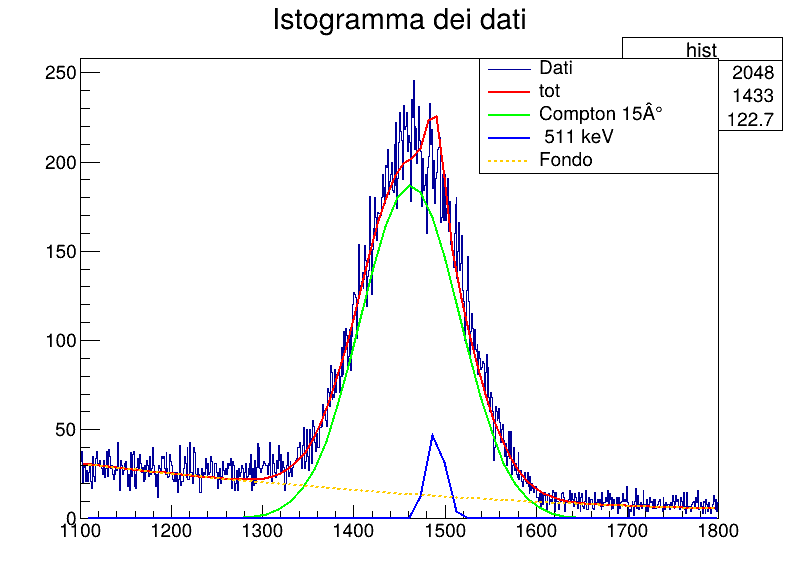
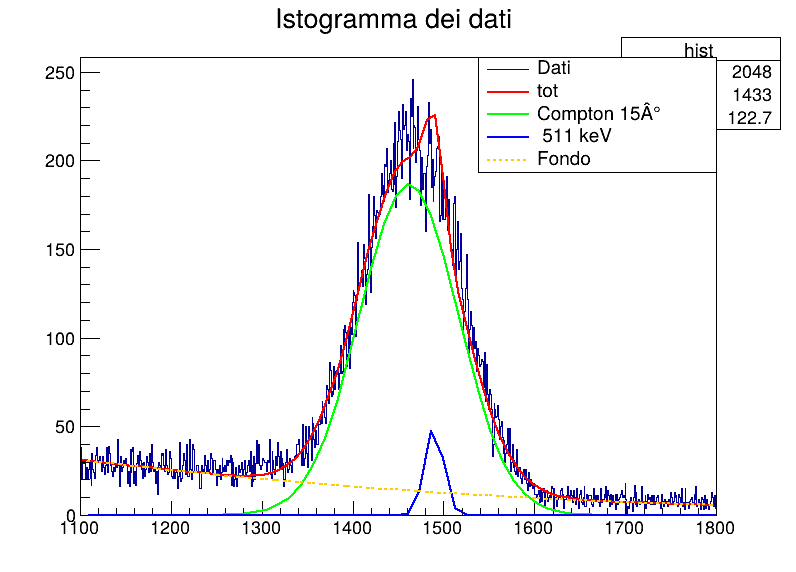
prove inutili

diff --git a/Measurments_trasmission/analisi 15 °/Picco15deg.py b/Measurments_trasmission/analisi 15 °/Picco15deg.py
@@ -1,109 +1,82 @@
 import numpy as np
 import matplotlib.pyplot as plt
-import ROOT
-from ROOT import TF1, TH1F, TCanvas, TLegend
+from iminuit import Minuit
+from scipy.stats import norm
 
-# Lettura del file
+# === Leggi i dati ===
 def read_data(filename):
     data = []
     with open(filename, 'r') as f:
-        lines = f.readlines()
-        for line in lines:
-            if line.strip() and not line.startswith("Canale"):  # Ignora le prime righe non numeriche
+        for line in f:
+            if line.strip() and not line.startswith("Canale"):
                 try:
                     _, _, eventi = map(int, line.split())
                     data.append(eventi)
-                except ValueError:
+                except:
                     continue
     return np.array(data)
 
-# Creazione dell'istogramma ROOT
-def create_histogram(data):
-    hist = TH1F("hist", "Istogramma dei dati", len(data), 0, len(data))
-    for i, value in enumerate(data):
-        hist.SetBinContent(i+1, value)  # ROOT usa bin da 1
-    return hist
-
-# Funzione di fit: doppia gaussiana + fondo parabolico
-def double_gauss_parabola(x, par):
-    g1 = par[0] * np.exp(-0.5 * ((x[0] - par[1]) / par[2])**2)
-    g2 = par[3] * np.exp(-0.5 * ((x[0] - par[4]) / par[5])**2)
-    bg = par[6] + par[7]*x[0] + par[8]*x[0]**2
-    return g1 + g2 + bg
-
-# Creazione della funzione di fit
-fit_func = TF1("fit_func", double_gauss_parabola, 1000, 1900, 9)
-
-def setup_fit_function(fit_func , i):
-    fit_func.SetParameters(150, 145, 100, 200, 1500, 100)
-    fit_func.SetParLimits(0, 100, 200)
-    fit_func.SetParLimits(1, 1400, 1500)
-    fit_func.SetParLimits(2, 10, 120)
-    fit_func.SetParLimits(3, 50,200)   #DEVO DEFINIRE MEGLIO QUESTI LIMITI!!!
-    fit_func.FixParameter(4, 1490+i)
-    fit_func.SetParLimits(5, 10,200)
-    return fit_func
-
 filename = "tot_15.txt"
 data = read_data(filename)
-hist = create_histogram(data)
-hist.GetXaxis().SetRangeUser(1100,1800)
+x_vals = np.arange(len(data))
+mask = (x_vals >= 1100) & (x_vals <= 1800)
+x = x_vals[mask]
+y = data[mask]
+y_err = np.sqrt(np.maximum(y, 1))
 
-centro = []
-err_centro = []
+# === Funzione totale (doppia gaussiana + parabola) ===
+def model(x, A1, mu1, sigma1, A2, mu2, sigma2, a0, a1, a2):
+    g1 = A1 * np.exp(-0.5 * ((x - mu1) / sigma1)**2)
+    g2 = A2 * np.exp(-0.5 * ((x - mu2) / sigma2)**2)
+    bkg = a0 + a1 * x + a2 * x**2
+    return g1 + g2 + bkg
 
-for i in range(20) :
+# === Loop con fit ===
+for i in range(20):
+    mu2_fixed = 1490 + i
 
-    fit_func = setup_fit_function(fit_func , i )
-    hist.Fit(fit_func, "R")
+    # Definizione funzione chi2 con mu2 fisso
+    def chi2(A1, mu1, sigma1, A2, sigma2, a0, a1, a2):
+        y_fit = model(x, A1, mu1, sigma1, A2, mu2_fixed, sigma2, a0, a1, a2)
+        return np.sum(((y - y_fit) / y_err) ** 2)
 
+    # Fit con Minuit
+    m = Minuit(chi2,
+               A1=150, mu1=1450, sigma1=100,
+               A2=200, sigma2=100,
+               a0=0, a1=0, a2=0)
 
+    m.limits["A1"] = (100, 200)
+    m.limits["mu1"] = (1400, 1500)
+    m.limits["sigma1"] = (10, 120)
+    m.limits["A2"] = (50, 200)
+    m.limits["sigma2"] = (10, 200)
+    m.errordef = Minuit.LEAST_SQUARES
+    m.migrad()
 
-    #Creazione del canvas e fit
-    canvas = TCanvas("c1", f"Fit Istogramma {1490 + i}" , 800, 600)
-    hist.Draw()
+    # === Plot ===
+    fig, ax = plt.subplots()
+    ax.errorbar(x, y, yerr=y_err, fmt='.', label='Dati')
 
-    # Creazione delle singole componenti per il disegno
-    gauss1 = TF1("gauss1", "[0]*exp(-0.5*((x-[1])/[2])**2)", 700, 2000)
-    gauss1.SetParameters(fit_func.GetParameter(0), fit_func.GetParameter(1) , fit_func.GetParameter(2))
-    gauss1.SetLineColor(ROOT.kGreen)
+    x_fit = np.linspace(1100, 1800, 1000)
+    y_fit = model(x_fit, *m.values.values(), mu2=mu2_fixed)
+    ax.plot(x_fit, y_fit, 'r-', label='Fit Totale')
 
-    gauss2 = TF1("gauss2", "[0]*exp(-0.5*((x-[1])/[2])**2)", 700, 2000)
-    gauss2.SetParameters(fit_func.GetParameter(3), fit_func.GetParameter(4) , fit_func.GetParameter(5))
-    gauss2.SetLineColor(ROOT.kBlue)
+    ax.plot(x_fit, m.values["A1"] * np.exp(-0.5 * ((x_fit - m.values["mu1"]) / m.values["sigma1"])**2),
+            '--', label='Compton 15°', color='green')
 
-    bkg = TF1("bkg", "[0] + [1]*x + [2]*x*x", 700, 2000)
-    bkg.SetParameters(fit_func.GetParameter(6), fit_func.GetParameter(7), fit_func.GetParameter(8))
-    bkg.SetLineColor(ROOT.kOrange)
-    bkg.SetLineStyle(2)  # Linea tratteggiata
+    ax.plot(x_fit, m.values["A2"] * np.exp(-0.5 * ((x_fit - mu2_fixed) / m.values["sigma2"])**2),
+            '--', label='511 keV', color='blue')
 
+    ax.plot(x_fit, m.values["a0"] + m.values["a1"] * x_fit + m.values["a2"] * x_fit**2,
+            '--', label='Fondo', color='orange')
 
-    # Disegna le componenti individuali
-    gauss1.Draw("SAME")
-    gauss2.Draw("SAME")
-    bkg.Draw("SAME")
+    ax.set_title(f"Fit Istogramma {mu2_fixed}")
+    ax.set_xlabel("Canale")
+    ax.set_ylabel("Conteggi")
+    ax.legend()
+    ax.grid(True)
 
-    # Legenda
-    legend = TLegend(0.6, 0.7, 0.9, 0.9)
-    legend.AddEntry(hist, "Dati", "l")
-    legend.AddEntry(fit_func, "tot", "l")
-    legend.AddEntry(gauss1, "Compton 15°", "l")
-    legend.AddEntry(gauss2, " 511 keV", "l")
-    legend.AddEntry(bkg, "Fondo", "l")
-    legend.Draw()
-
-    canvas.Update()
-    canvas.SaveAs(f"Fit Istogramma {1490 + i}.png")
-
-  
-    
-    centro.append(fit_func.GetParameter(1))
-    err_centro.append(fit_func.GetParError(1))
-    
-
-plt.hist(centro, bins=30, color='red', alpha=0.6, label='distribuzione centroidi', edgecolor='black')
-plt.xlabel("centroidi")
-plt.ylabel("Frequenza")
-plt.legend()
-plt.savefig("histo.png")
-plt.show()
+    plt.tight_layout()
+    plt.savefig(f"Fit_Istogramma_{mu2_fixed}.png")
+    plt.close()
